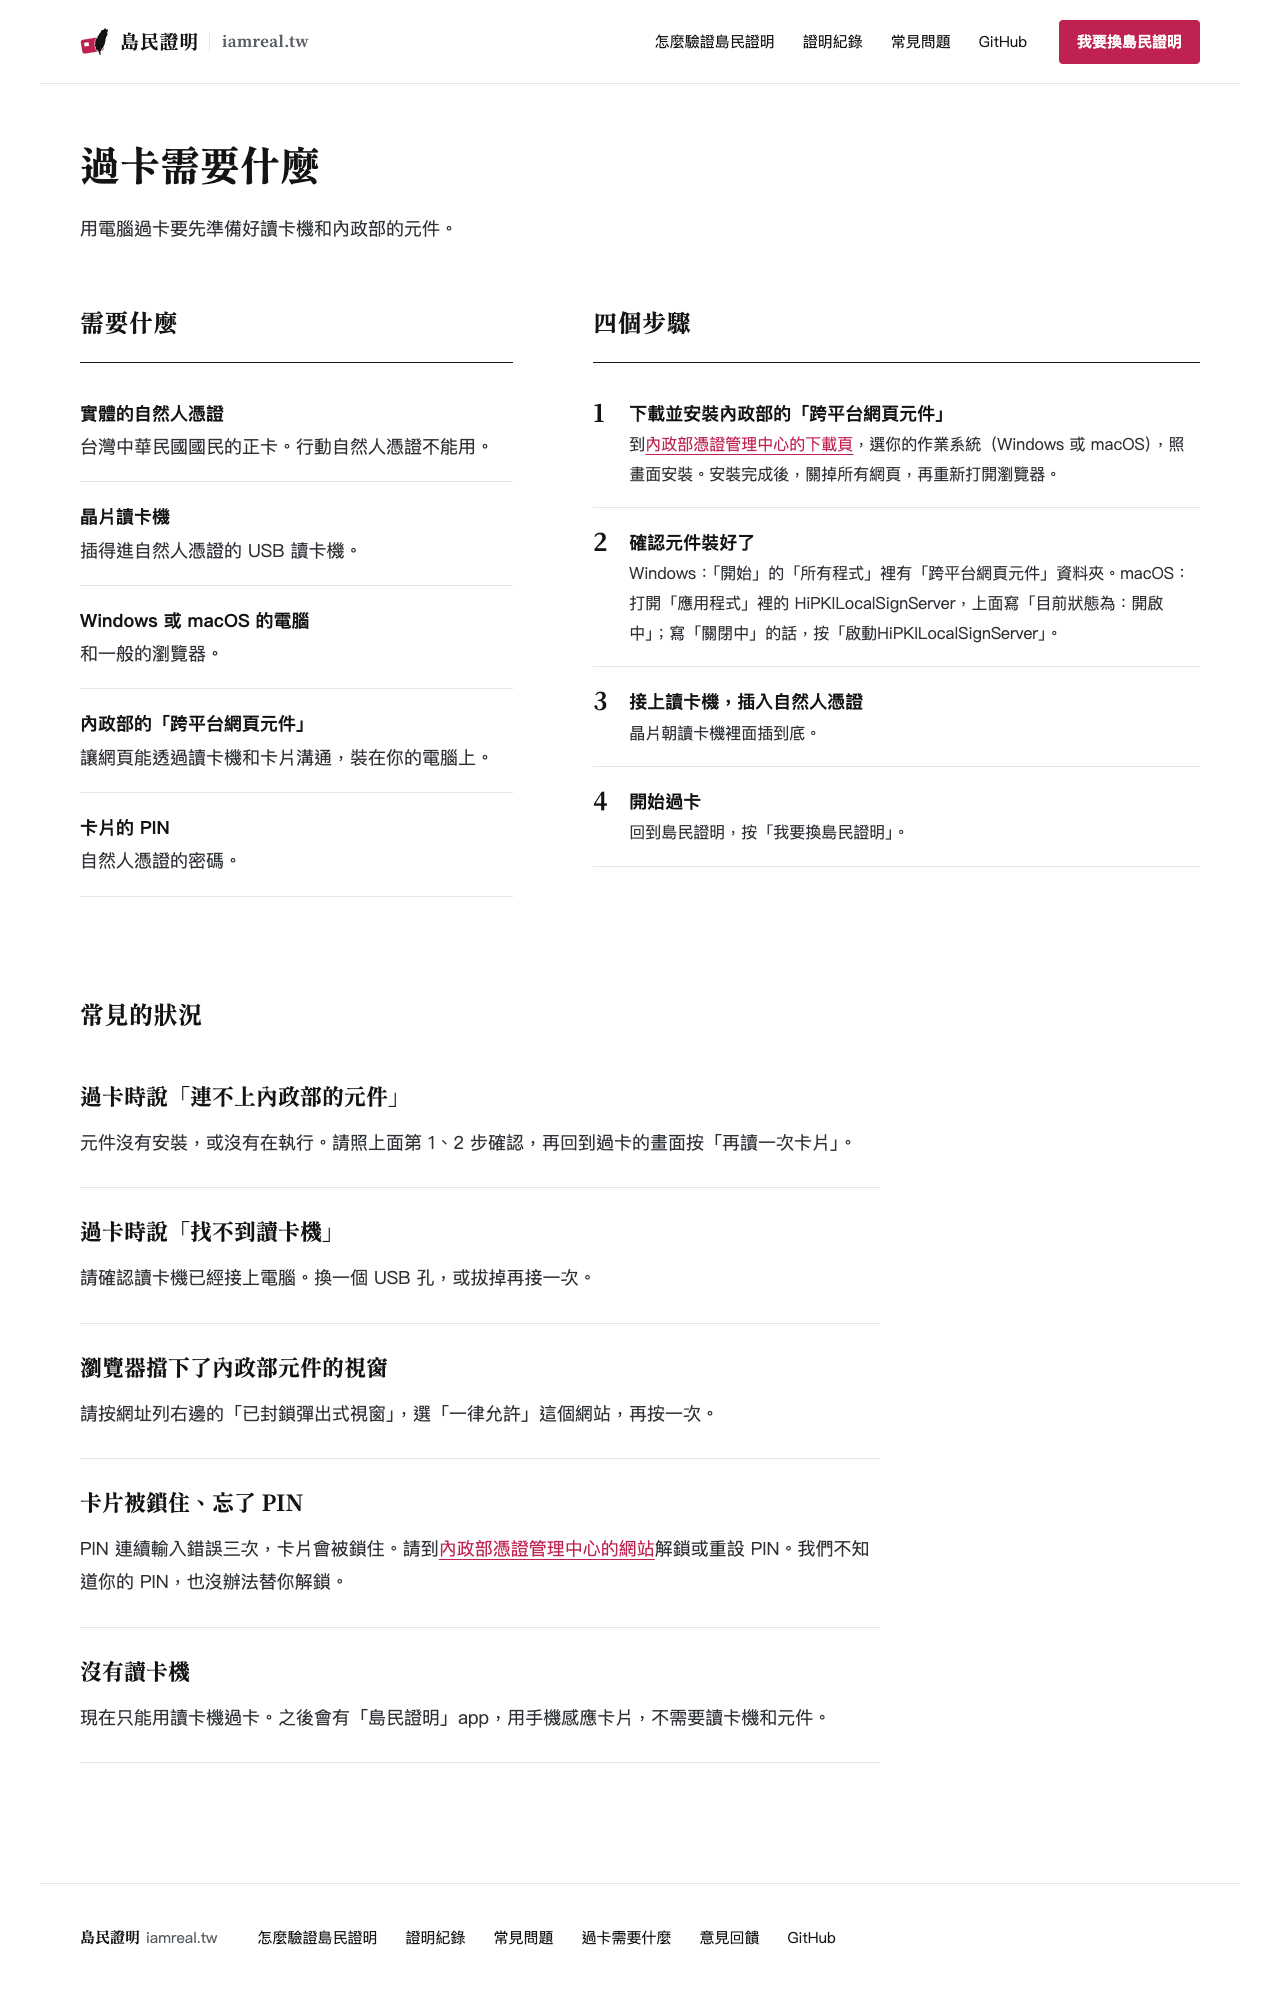
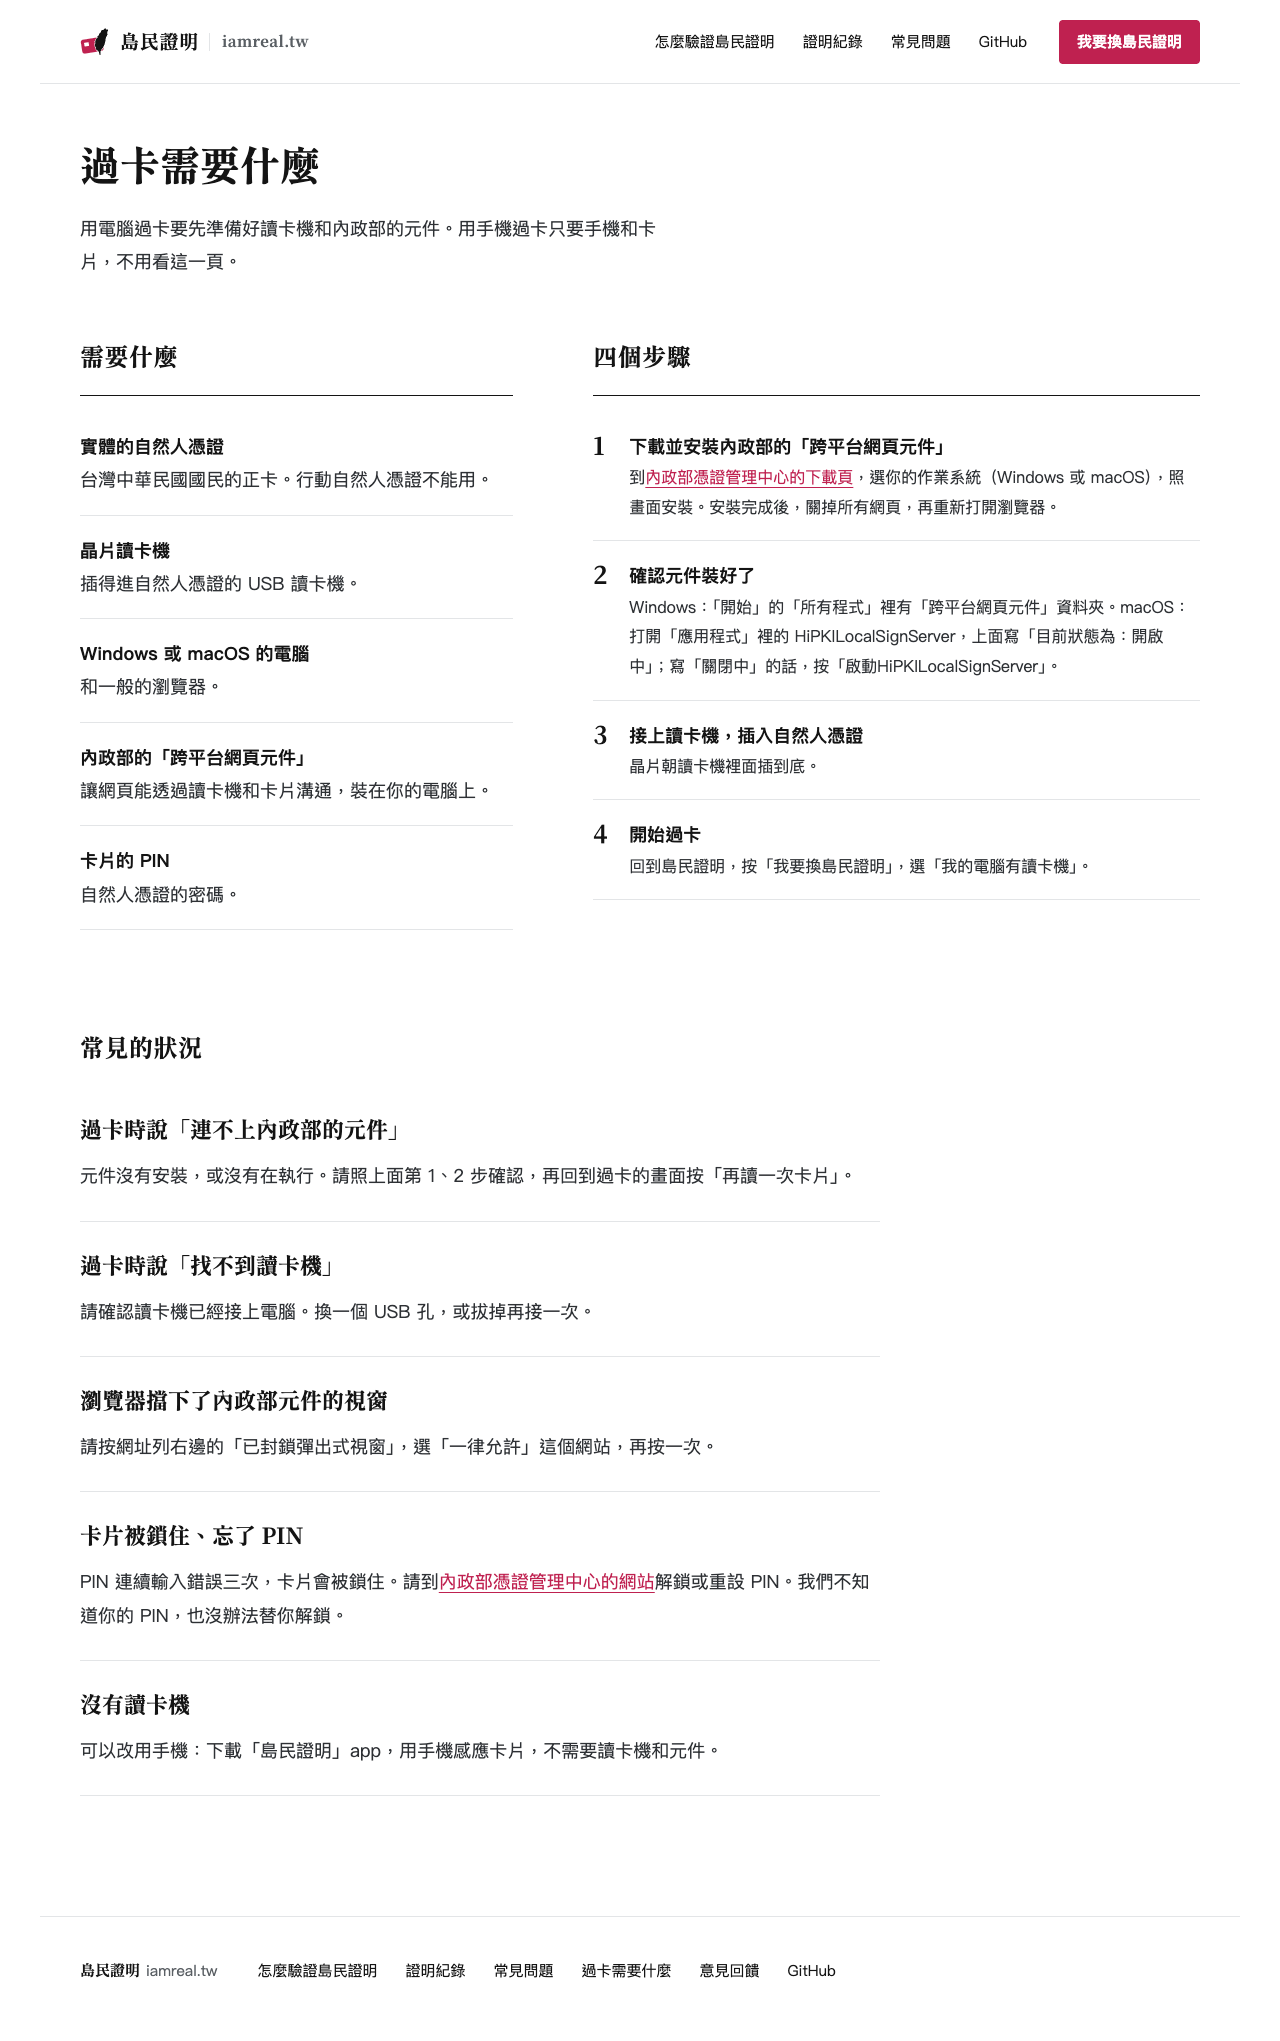
app 的句子照定稿寫，ADR-0032 計數的頁面種類加「過卡需要什麼」（#290）
- prepare.md：開頭第二句、第 4 步的「選「我的電腦有讀卡機」」、「沒有讀卡機」照 app 能用時寫：app 和網站一起上線（專案擁有者 2026-11-24 定）
- 測試：第 4 步的按鈕名稱和 card-proof.json 的 app.use_reader 相同
- ADR-0032 的頁面瀏覽種類加「過卡需要什麼」，和 privacy.md 一致（專案擁有者看過文字）
- 截圖重拍

diff --git a/worker/src/pages/prepare.ts b/worker/src/pages/prepare.ts
@@ -16,7 +16,7 @@ const MOICA_SITE = "https://moica.nat.gov.tw/";
 export function preparePage(): Document {
   const content = html`<section class="intro">
 <h1 class="title">過卡需要什麼</h1>
-<p>用電腦過卡要先準備好讀卡機和內政部的元件。</p>
+<p>用電腦過卡要先準備好讀卡機和內政部的元件。用手機過卡只要手機和卡片，不用看這一頁。</p>
 </section>
 <div class="columns">
 <section class="needs">
@@ -35,7 +35,7 @@ export function preparePage(): Document {
 <li><span class="n">1</span><div><b>下載並安裝內政部的「跨平台網頁元件」</b><p>到<a href="${MOICA_DOWNLOAD}">內政部憑證管理中心的下載頁</a>，選你的作業系統（Windows 或 macOS），照畫面安裝。安裝完成後，關掉所有網頁，再重新打開瀏覽器。</p></div></li>
 <li><span class="n">2</span><div><b>確認元件裝好了</b><p>Windows：「開始」的「所有程式」裡有「跨平台網頁元件」資料夾。macOS：打開「應用程式」裡的 HiPKILocalSignServer，上面寫「目前狀態為：開啟中」；寫「關閉中」的話，按「啟動HiPKILocalSignServer」。</p></div></li>
 <li><span class="n">3</span><div><b>接上讀卡機，插入自然人憑證</b><p>晶片朝讀卡機裡面插到底。</p></div></li>
-<li><span class="n">4</span><div><b>開始過卡</b><p>回到島民證明，按「我要換島民證明」。</p></div></li>
+<li><span class="n">4</span><div><b>開始過卡</b><p>回到島民證明，按「我要換島民證明」，選「我的電腦有讀卡機」。</p></div></li>
 </ol>
 </section>
 </div>
@@ -50,7 +50,7 @@ export function preparePage(): Document {
 <section class="situation"><h3>卡片被鎖住、忘了 PIN</h3>
 <p>PIN 連續輸入錯誤三次，卡片會被鎖住。請到<a href="${MOICA_SITE}">內政部憑證管理中心的網站</a>解鎖或重設 PIN。我們不知道你的 PIN，也沒辦法替你解鎖。</p></section>
 <section class="situation"><h3>沒有讀卡機</h3>
-<p>現在只能用讀卡機過卡。之後會有「島民證明」app，用手機感應卡片，不需要讀卡機和元件。</p></section>
+<p>可以改用手機：下載「島民證明」app，用手機感應卡片，不需要讀卡機和元件。</p></section>
 </section>`;
   return { title: "過卡需要什麼", kind: "prepare", content };
 }

diff --git a/worker/test/site-pages.test.ts b/worker/test/site-pages.test.ts
@@ -291,6 +291,8 @@ describe("what a card proof needs", () => {
   });
 
   test("the sentences it shares with the card proof's screens are card-proof.json's", () => {
+    const useReader = (JSON.parse(readCopy("card-proof.json")) as { app: Record<string, string> }).app.use_reader!;
+    assert.ok(block("prepare.md", "3. ").join("\n").includes(`選「${useReader}」`), `prepare.md step 4 says 選「${useReader}」`);
     const situations = block("prepare.md", "4. ").join("\n");
     const s = cardProofSentences();
     const [unreachable] = s.componentUnreachable.split("。");

diff --git a/docs/adr/0032-analytics-counts-events-not-people.md b/docs/adr/0032-analytics-counts-events-not-people.md
@@ -12,7 +12,7 @@ status: accepted（部分由 ADR-0039 取代）
 
 ## 數什麼
 
-- **頁面瀏覽**，照頁面的種類：首頁、島民證明、查詢頁、證明紀錄頁、常見問題、隱私權說明、過卡。打開島民證明時連同短編號。
+- **頁面瀏覽**，照頁面的種類：首頁、島民證明、查詢頁、證明紀錄頁、常見問題、過卡需要什麼、隱私權說明、過卡。打開島民證明時連同短編號。
 - **來源**：`Referer` 的網域，和在哪個 app 的內建瀏覽器裡開的（從 `User-Agent` 分成幾類）。不記完整的 `Referer`、不記完整的 `User-Agent`、不讀網址上的參數。
 - **過卡的每一步**：到了哪一步、停下來時的錯誤代碼。同一次過卡的各步之間不串：沒有把它們連起來的編號，漏斗用各步的總數相除。
 - **指定的動作**：例如按了「開始過卡」、展開了哪一題常見問題、複製了島民證明的連結。
